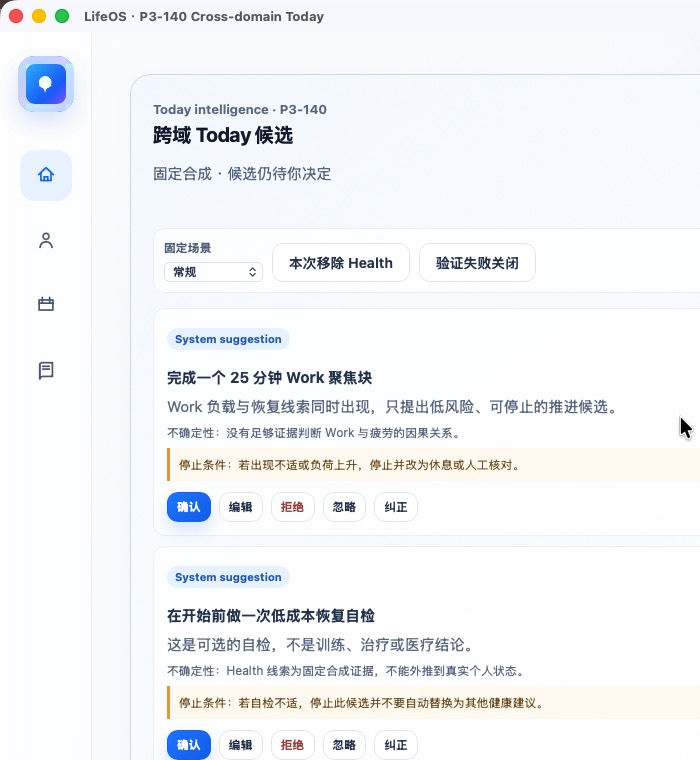
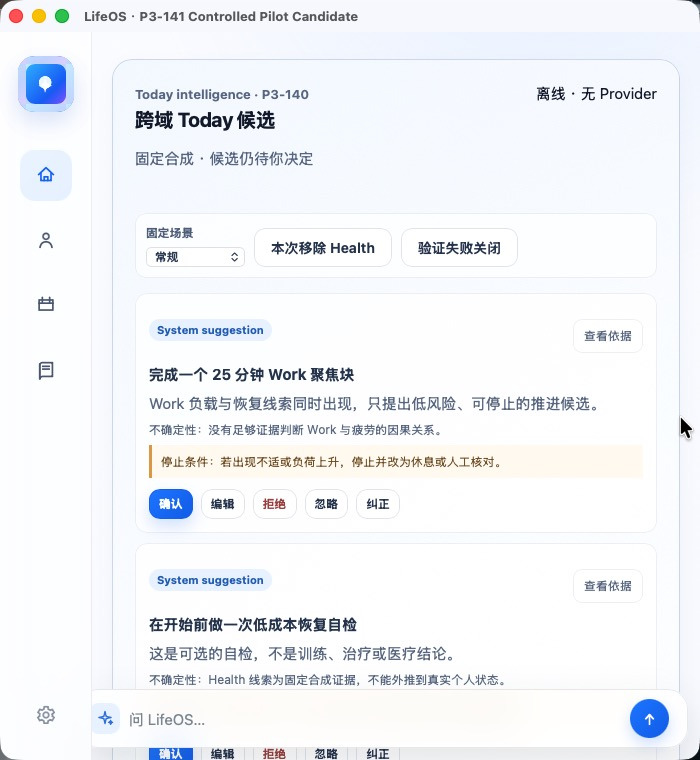
fix(lifeos): align P3-141 viewport identity evidence

diff --git a/lifeos/engineering/LIFEOS-P3-141/candidate/ui/index.html b/lifeos/engineering/LIFEOS-P3-141/candidate/ui/index.html
@@ -4,7 +4,7 @@
     <meta charset="utf-8" />
     <meta name="viewport" content="width=device-width, initial-scale=1" />
     <meta name="color-scheme" content="light" />
-    <title>LifeOS — P3-140 Cross-domain Today</title>
+    <title>LifeOS · P3-141 Controlled Pilot Candidate</title>
     <link rel="stylesheet" href="styles.css" />
     <!-- P3-134 task-local narrow-screen repair; P3-116 visual-contract files remain byte-identical. -->
     <link rel="stylesheet" href="viewport-adapter.css" />

diff --git a/lifeos/engineering/LIFEOS-P3-141/engineering_report.md b/lifeos/engineering/LIFEOS-P3-141/engineering_report.md
@@ -6,7 +6,7 @@
 
 ## 实现事实
 
-- 以 P3-140 的 79 文件候选为唯一基线，修改仍限候选内 6 个允许文件；当前候选保持 79 文件。
+- 以 P3-140 的 79 文件候选为唯一基线；当前候选保持 79 文件。除原先 6 个实现文件外，`ui/index.html` 的 native document title 已对齐为 `LifeOS · P3-141 Controlled Pilot Candidate`，避免在窄视口把 P3-140 Today 语义标题误作候选身份。
 - IPC 仍为恰好 20 项；未新增 IPC。
 - Provider 闭集为 OpenAI、Anthropic、Ollama、LM Studio。Phase A 的唯一可派发路径是 task-local loopback fixture；Custom、第二 Provider、fallback 和后台发送均没有实现路径。
 - Provider 明确执行保存 → 测试 → 启用 → 发送。首个成功合成发送后持久化锁定 Provider；切换被 `provider_locked_after_first_send` 拒绝，重启后锁仍存在但不会自动启用或重发。
@@ -19,11 +19,11 @@
 - 预接触封存：`test_design.md` 和 `write_allowlist.md` 的 SHA-256 在接触候选前写入 seal，复核未变。
 - 最终可复跑合成命令：`sh lifeos/engineering/LIFEOS-P3-141/tools/replay_phase_a.sh`；最终结果为 Rust 42/42 passed。
 - Phase gate：无 receipt 的 `real_self_use` offline build 返回 101，报出 `phase_b_independent_pass_required before runtime-root inspection`。
-- actual Tauri：桌面、compact、narrow 三次独立启动均以各自返回 PID 绑定 1 个 `AXWindow` 和 1 个 `AXWebArea`；三档都执行并观察到合成 `context_budget_rejected` 失败关闭。每个直接 PID-bound AX 窗口都留下单独哈希的固定合成无敏感状态截图：`evidence/screenshots/desktop_redacted_state.jpeg`（1280×1024）、`compact_redacted_state.jpeg`（700×760）与 `narrow_redacted_state.jpeg`（560×640）。
+- actual Tauri：最终重建 bundle 的桌面、compact、narrow 三次独立启动均以各自返回 PID 绑定 1 个 `AXWindow` 和 1 个 `AXWebArea`，并逐档断言 exact native title `LifeOS · P3-141 Controlled Pilot Candidate`。每个直接 PID-bound AX 窗口留下单独哈希的固定合成无敏感截图：`evidence/screenshots/desktop_redacted_state.jpeg`（1280×1024）、`compact_redacted_state.jpeg`（700×760）与 `narrow_redacted_state.jpeg`（560×640）。此前 compact/narrow 顶栏显示 P3-140 的两张图已经明确失效，不作正 Evidence。
 - 内容排除 scanner：禁止 Pilot 标记 0 命中；Evidence 只记录虚构夹具和非内容状态。
 - 清理：唯一临时根已精确移除；任何真实目标均未访问或清理。
 
-完整逐行状态见 [ABF_PHASE_A_MATRIX.md](evidence/ABF_PHASE_A_MATRIX.md)。实际 GUI 的 PID/AX/WebView/截图哈希记录见 [actual_tauri_viewports.json](evidence/actual_tauri_viewports.json)。
+完整逐行状态见 [ABF_PHASE_A_MATRIX.md](evidence/ABF_PHASE_A_MATRIX.md)。实际 GUI 的 PID/AX/WebView/截图哈希记录见 [actual_tauri_viewports.json](evidence/actual_tauri_viewports.json)，逐档人工身份核验见 [screenshot_identity_review.md](evidence/screenshot_identity_review.md)。
 
 ## 问题与保留项
 

diff --git a/lifeos/engineering/LIFEOS-P3-141/evidence/failure_history.md b/lifeos/engineering/LIFEOS-P3-141/evidence/failure_history.md
@@ -13,5 +13,8 @@ The following failed commands were not used as positive evidence.  Each was corr
 | First standard CoreGraphics screenshot API invocation | the current SDK marks the direct API unavailable | Not used as evidence; the final capture used the supported legacy symbol only with the directly observed AX rectangle. |
 | First compact/narrow screenshot capture immediately after the synthetic failure-close action | compositor frame was stale and still displayed the pre-action fixed synthetic view | Not used as failure-close screenshot evidence. The final retained images are viewport-only fixed-synthetic frames; the failure-close assertion is retained independently from the freshly read direct app accessibility state. |
 | First AppleScript descendant-button selector | selector conversion returned an AppleScript type error | Not used as evidence; the existing synthetic UI control was activated through the direct app accessibility target and its returned state was freshly read. |
[2 lines of base64/hex data omitted]
+| Direct AXWindowNumber capture attempt for replacement compact screenshot | the direct AXWindow did not expose `AXWindowNumber`; no image was emitted by that attempt | Preserved as a failed method only. Final images were captured after the exact target PID/AX title/AXWebArea assertion and direct AXRaise; each result was manually checked for the visible P3-141 title. |
 
 No test failure left open. The unavailable formatter is non-functional tooling only and does not alter the candidate, test, or Evidence conclusion. Screenshot failures above did not read, write, inspect, or enumerate any prohibited target.

diff --git a/lifeos/engineering/LIFEOS-P3-141/evidence/screenshot_identity_review.md b/lifeos/engineering/LIFEOS-P3-141/evidence/screenshot_identity_review.md
@@ -1,0 +1,19 @@
+# P3-141 final-bundle screenshot identity review
+
+## Current positive screenshot evidence
+
+Manual visual inspection of the native top bar was performed after each direct-PID AX binding and capture. The visible title in every retained frame is exactly `LifeOS · P3-141 Controlled Pilot Candidate`.
+
+| Viewport | Direct launch PID | AX proof | Retained image | SHA-256 | Visible native title |
+|---|---:|---|---|---|---|
[3 lines of base64/hex data omitted]
+
+The body continues to display the retained P3-140 Today semantic surface; that is not the candidate identity. Only the native title specified above is used as the screenshot identity assertion.
+
+## Invalidated previous evidence
+
+The compact and narrow images committed in `4960a36e77bbb816a58bfaee34c89f6d17eca8d9` are **not positive Evidence**. Human visual inspection showed their top bars as `LifeOS · P3-140 Cross-domain Today`, while the former `actual_tauri_viewports.json` asserted the P3-141 candidate title. Their prior PIDs and hashes are retained in `actual_tauri_viewports.json` and `failure_history.md`; the files were replaced only after that invalidation was recorded.
+
+All current and invalidated screenshots are fixed synthetic UI only. No real Pilot, personal content, Health values, credential, Provider traffic, or network response was inspected or recorded.

diff --git a/lifeos/engineering/LIFEOS-P3-141/evidence/ABF_PHASE_A_MATRIX.md b/lifeos/engineering/LIFEOS-P3-141/evidence/ABF_PHASE_A_MATRIX.md
@@ -19,7 +19,7 @@ Status vocabulary: `PASS_SYNTHETIC_ONLY` is evidence that the row's synthetic-co
 | ABF-M-013 | PASS_SYNTHETIC_ONLY | `synthetic_behavior.json`, Today safety tests | High-risk signal produces a conservative non-diagnostic stop. |
 | ABF-M-014 | PASS_SYNTHETIC_ONLY | `synthetic_behavior.json`, closure and Provider negative tests | Authorization, stale, budget, DB and Provider failures stop before their protected write/dispatch. |
 | ABF-M-015 | PASS_SYNTHETIC_ONLY | `synthetic_behavior.json`, lifecycle test | Restart reloads lock but does not enable or dispatch; repeated request id reuses result. |
-| ABF-M-016 | PASS_SYNTHETIC_ONLY | `actual_tauri_viewports.json`, `screenshots/desktop_redacted_state.jpeg`, `screenshots/compact_redacted_state.jpeg`, `screenshots/narrow_redacted_state.jpeg` | Three known launch PIDs each bind exactly one AXWindow and one AXWebArea; each direct PID-bound window has a separately hashed, fixed-synthetic redacted-state screenshot. |
+| ABF-M-016 | PASS_SYNTHETIC_ONLY | `actual_tauri_viewports.json`, `screenshot_identity_review.md`, `screenshots/desktop_redacted_state.jpeg`, `screenshots/compact_redacted_state.jpeg`, `screenshots/narrow_redacted_state.jpeg` | Three final-bundle launch PIDs each bind exactly one AXWindow with exact title `LifeOS · P3-141 Controlled Pilot Candidate` and one AXWebArea; each direct PID-bound window has a separately hashed, fixed-synthetic screenshot with that title visibly reviewed. The prior compact/narrow title-conflict images are explicitly invalidated, not reused. |
 | ABF-M-017 | PENDING_PHASE_C | — | User-only non-content real-use receipt is outside Phase A. |
 | ABF-M-018 | PENDING_PHASE_B | — | A fresh independent-review session is mandatory and has not started. |
 | ABF-M-019 | PASS_SYNTHETIC_ONLY | `cleanup_and_retention.json`, `tools/cleanup_temp.sh` | Exact temporary root is absent; prohibited real targets were not accessed or cleaned. |

diff --git a/lifeos/engineering/LIFEOS-P3-141/evidence/mutation_report.md b/lifeos/engineering/LIFEOS-P3-141/evidence/mutation_report.md
@@ -1,8 +1,8 @@
 # P3-141 Phase A mutation report
 
[2 lines of base64/hex data omitted]
-- Allowed changed paths are exactly `Cargo.lock`, `Cargo.toml`, `build.rs`, `src/runtime.rs`, `tauri.conf.json`, and `ui/runtime-adapter.js`.
[1 lines of base64/hex data omitted]
+- Changed paths are exactly `Cargo.lock`, `Cargo.toml`, `build.rs`, `src/runtime.rs`, `tauri.conf.json`, `ui/runtime-adapter.js`, and `ui/index.html`. The final title-only change ensures the native browser document title presents the P3-141 candidate identity at every viewport while retaining P3-140 Today semantics in the page body.
 - Negative mutations covered by the final successful test run: unsupported Provider profile, unsafe endpoint, stale enablement, malformed/oversize/timeout/disconnect Provider replies, revoked authorization after dispatch, invalid DTO/IPC/database/path inputs, feedback and budget failure closure.
 - The Provider transition mutation is explicit: after one successful synthetic loopback send, switching from Ollama to LM Studio returns `provider_locked_after_first_send`; reloading keeps the lock and does not enable or resend.
 - No mutation test uses a real root, real text, Health values, credentials, or network target.
